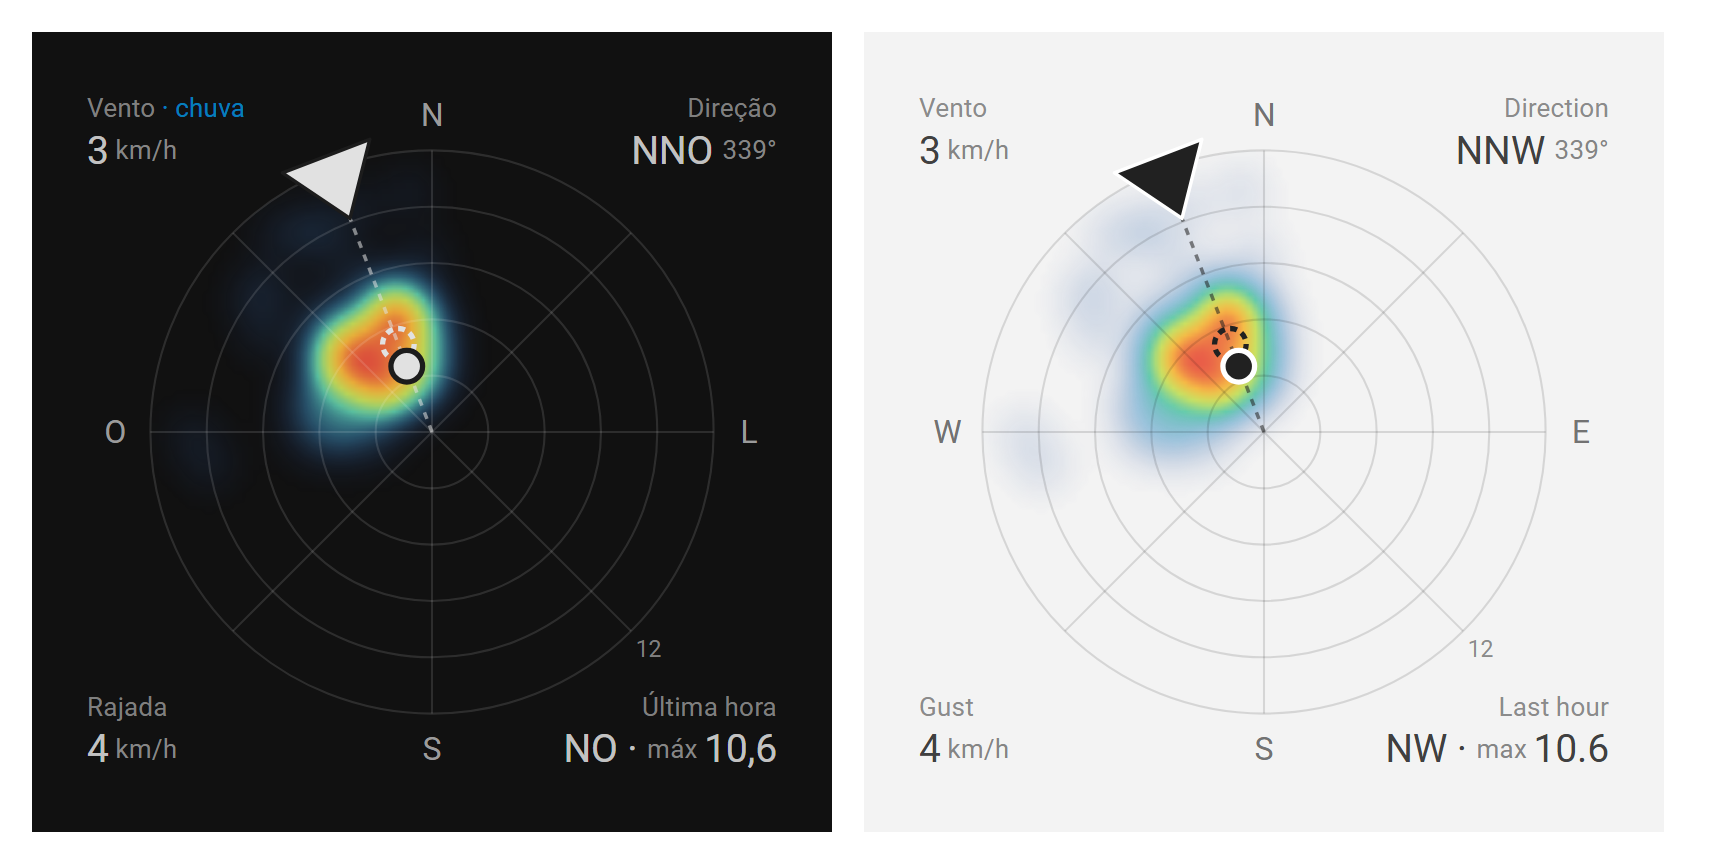
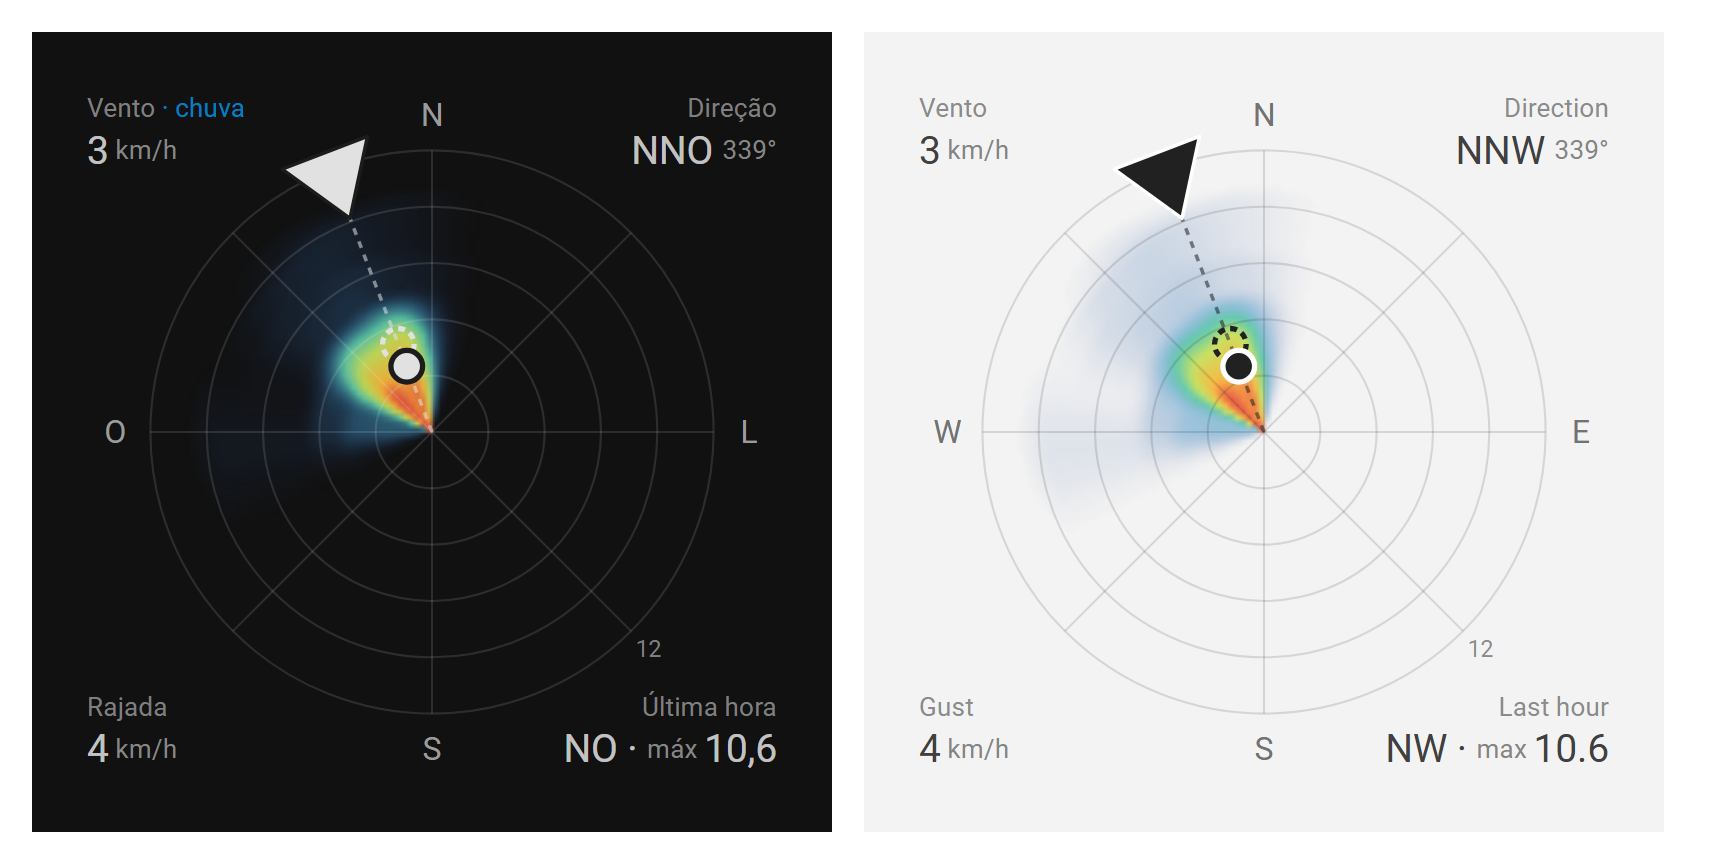
feat: v0.7.0 — heat map grows from the centre; full YAML on new cards
- heat_mode: plume (default): each sample paints its bearing from the
  centre out to the speed it reached, so intensity at (bearing, r) is
  the share of time the wind came from there and reached at least r.
  Smoothed across bearings, wraps at north. heat_mode: spots keeps the
  previous look. Closes #6
- New cards start with every option in YAML (same set as the visual
  editor) via DEFAULTS; setConfig merges the same defaults, and an old
  `hours` config still wins over the default window.
- Editor: heat_mode, calm and refresh fields; sectors as a number; the
  form shows the real defaults when a key is missing.

diff --git a/pt2vhf-wind-rose-card.js b/pt2vhf-wind-rose-card.js
@@ -4,7 +4,7 @@
  * comes FROM, distance from the centre = speed, colour = how much time it blew there.
  * https://github.com/alexpmr/pt2vhf-wind-rose
  */
-const VERSION = '0.6.0';
+const VERSION = '0.7.0';
 const TAG = 'pt2vhf-wind-rose-card';
 
 const STR = {
@@ -96,6 +96,7 @@ export function computeRose(speed, dir, { start, end, sectors = 16, rings = 5, m
   const counts = Array.from({ length: sectors }, () => new Array(rings).fill(0));
   const bySector = new Array(sectors).fill(0);
   const points = [];
+  const polar = [];
   let calmN = 0;
   let sum = 0;
   for (const [s, d] of samples) {
@@ -104,6 +105,7 @@ export function computeRose(speed, dir, { start, end, sectors = 16, rings = 5, m
     const r = Math.min(1, s / max);
     const rad = (d * Math.PI) / 180;
     points.push([r * Math.sin(rad), -r * Math.cos(rad)]);
+    polar.push([r, d]);
     const a = sectorOf(d, sectors);
     counts[a][Math.min(rings - 1, Math.floor((s / max) * rings))]++;
     bySector[a]++;
@@ -111,7 +113,7 @@ export function computeRose(speed, dir, { start, end, sectors = 16, rings = 5, m
   const total = samples.length;
   const best = bySector.indexOf(Math.max(...bySector));
   return {
-    counts, total, max, peak, points,
+    counts, total, max, peak, points, polar,
     calm: total ? calmN / total : 0,
     avg: total ? sum / total : 0,
     prevailing: total > calmN ? best : -1,
@@ -143,6 +145,62 @@ export function density(points, n = 96, sigma = 0.08) {
   for (const v of g) if (v > top) top = v;
   if (top > 0) for (let k = 0; k < g.length; k++) g[k] /= top;
   return g;
+}
+
+/**
+ * Radial "plume" heat map on an n×n grid over [-1, 1]² (row 0 = top), normalised to 1.
+ * Each sample [r, deg] paints the whole ray from the centre out to its speed r (soft tip),
+ * so intensity at (bearing, radius) = time the wind came from ~bearing AND reached at least
+ * that radius. Smoothed across bearings with a Gaussian of sigmaDeg; wraps at north.
+ */
+export function plume(polar, n = 96, sigmaDeg = 10, tip = 0.04) {
+  const B = 360; // 1° bearing bins
+  const K = 64; // radial levels
+  const E = new Float32Array(B * K);
+  for (const [r, d] of polar) {
+    const b = Math.round(withOffset(d, 0)) % B;
+    for (let k = 0; k < K; k++) {
+      const t = Math.min(1, Math.max(0, ((r - (k + 0.5) / K) / tip) * 0.5 + 0.5));
+      if (t === 0) break;
+      E[b * K + k] += t * t * (3 - 2 * t); // smoothstep: plume fades just past its speed
+    }
+  }
+  // Circular Gaussian blur across bearings.
+  const w = Math.max(1, Math.ceil(3 * sigmaDeg));
+  const kern = Array.from({ length: 2 * w + 1 }, (_, o) => Math.exp(-((o - w) ** 2) / (2 * sigmaDeg * sigmaDeg)));
+  const P = new Float32Array(B * K);
+  for (let b = 0; b < B; b++) {
+    for (let o = -w; o <= w; o++) {
+      const src = ((b + o) % B + B) % B;
+      const g = kern[o + w];
+      for (let k = 0; k < K; k++) P[b * K + k] += g * E[src * K + k];
+    }
+  }
+  // Sample the polar table on the cartesian grid (bilinear in bearing and radius).
+  const out = new Float32Array(n * n);
+  let top = 0;
+  for (let j = 0; j < n; j++) {
+    const y = ((j + 0.5) * 2) / n - 1;
+    for (let i = 0; i < n; i++) {
+      const x = ((i + 0.5) * 2) / n - 1;
+      const rho = Math.hypot(x, y);
+      if (rho > 1) continue;
+      const phi = withOffset((Math.atan2(x, -y) * 180) / Math.PI, 0);
+      const b0 = Math.floor(phi) % B;
+      const b1 = (b0 + 1) % B;
+      const tb = phi - Math.floor(phi);
+      const kf = Math.min(K - 1, Math.max(0, rho * K - 0.5));
+      const k0 = Math.floor(kf);
+      const k1 = Math.min(K - 1, k0 + 1);
+      const tk = kf - k0;
+      const v = (P[b0 * K + k0] * (1 - tb) + P[b1 * K + k0] * tb) * (1 - tk)
+        + (P[b0 * K + k1] * (1 - tb) + P[b1 * K + k1] * tb) * tk;
+      out[j * n + i] = v;
+      if (v > top) top = v;
+    }
+  }
+  if (top > 0) for (let k = 0; k < out.length; k++) out[k] /= top;
+  return out;
 }
 
 function rgbAt(f) {
@@ -221,26 +279,55 @@ export function pointerSvg(style, dir, R, { guide = true } = {}) {
 const LABELS = {
   entity: 'Wind speed', direction_entity: 'Wind direction (degrees)', gust_entity: 'Gust', rain_entity: 'Rain',
   name: 'Name', window: 'Heat-map window', direction_offset: 'Rotate rose (display only)', max_speed: 'Max speed (0 = auto)',
-  smooth: 'Heat-map softness', pointer: 'Pointer style', pointer_color: 'Pointer colour (CSS)',
+  heat_mode: 'Heat-map style', smooth: 'Heat-map softness', pointer: 'Pointer style', pointer_color: 'Pointer colour (CSS)',
   show_guide: 'Arrow guide line', show_speed: 'Current speed dot', show_gust: 'Gust ring', show_rim: 'Outer circle', show_rings: 'Speed rings', show_spokes: 'Spokes', show_scale: 'Scale label', rings: 'Ring count',
-  sectors: 'Prevailing bins', max_width: 'Max size', tap_action: 'Tap action',
+  sectors: 'Prevailing bins', calm: 'Calm below (speed)', refresh: 'History refresh', max_width: 'Max size', tap_action: 'Tap action',
 };
 
 const esc = (s) => String(s).replace(/[&<>"']/g, (c) => `&#${c.charCodeAt(0)};`);
 const Base = globalThis.HTMLElement ?? class {};
 
-class WindRoseCard extends Base {
+/** Every optional setting with the value the card uses when it is missing. */
+export const DEFAULTS = {
+  window: '1h',
+  heat_mode: 'plume',
+  smooth: 8,
+  calm: 0.5,
+  max_speed: 0,
+  direction_offset: 0,
+  pointer: 'arrow',
+  pointer_color: '',
+  show_guide: true,
+  show_speed: true,
+  show_gust: true,
+  show_rim: true,
+  show_rings: true,
+  show_spokes: true,
+  show_scale: true,
+  rings: 5,
+  sectors: 16,
+  max_width: 380,
+  refresh: 60,
+  tap_action: { action: 'more-info' },
+};
+
+export class WindRoseCard extends Base {
+  // A new card's YAML lists every option (same set as the visual editor), so it can be edited later.
   static getStubConfig(hass) {
     const ids = Object.keys(hass?.states || {});
     const dc = (cls) => ids.find((id) => hass.states[id].attributes?.device_class === cls);
     return {
       entity: dc('wind_speed') || '',
       direction_entity: ids.find((id) => /wind.*(dir|bearing)|(dir|bearing).*wind/i.test(id)) || '',
+      gust_entity: ids.find((id) => /wind.*gust|gust/i.test(id)) || '',
+      rain_entity: '',
+      name: '',
+      ...structuredClone(DEFAULTS),
     };
   }
 
   static getConfigForm() {
-    return {
+    const form = {
       schema: [
         { name: 'entity', required: true, selector: { entity: { domain: 'sensor' } } },
         { name: 'direction_entity', required: true, selector: { entity: { domain: 'sensor' } } },
@@ -260,6 +347,7 @@ class WindRoseCard extends Base {
             },
             { name: 'direction_offset', selector: { number: { min: -180, max: 180, step: 1, mode: 'box', unit_of_measurement: '°' } } },
             { name: 'max_speed', selector: { number: { min: 0, mode: 'box' } } },
+            { name: 'heat_mode', selector: { select: { mode: 'dropdown', options: ['plume', 'spots'] } } },
             { name: 'smooth', selector: { number: { min: 2, max: 25, step: 1, mode: 'slider' } } },
           ],
         },
@@ -280,7 +368,9 @@ class WindRoseCard extends Base {
                 { name: 'show_spokes', selector: { boolean: {} } },
                 { name: 'show_scale', selector: { boolean: {} } },
                 { name: 'rings', selector: { number: { min: 2, max: 12, mode: 'box' } } },
-                { name: 'sectors', selector: { select: { options: ['8', '16', '32'] } } },
+                { name: 'sectors', selector: { number: { min: 4, max: 64, mode: 'box' } } },
+                { name: 'calm', selector: { number: { min: 0, max: 5, step: 0.1, mode: 'box' } } },
+                { name: 'refresh', selector: { number: { min: 10, max: 3600, mode: 'box', unit_of_measurement: 's' } } },
                 { name: 'max_width', selector: { number: { min: 120, max: 1000, mode: 'box', unit_of_measurement: 'px' } } },
               ],
             },
@@ -290,6 +380,10 @@ class WindRoseCard extends Base {
       ],
       computeLabel: (s) => LABELS[s.name],
     };
+    // Show the real defaults (e.g. toggles that are on) even when a key is missing from the YAML.
+    const fill = (schema) => schema.forEach((s) => (s.schema ? fill(s.schema) : (s.name in DEFAULTS && (s.default = DEFAULTS[s.name]))));
+    fill(form.schema);
+    return form;
   }
 
   setConfig(config) {
@@ -297,9 +391,12 @@ class WindRoseCard extends Base {
       throw new Error('entity (wind speed) and direction_entity are required');
     }
     this._config = {
-      sectors: 16, rings: 5, calm: 0.5, refresh: 60, ...config,
+      ...structuredClone(DEFAULTS),
+      ...config,
     };
-    this._config.sectors = Number(this._config.sectors);
+    // A config that only sets the older 'hours' keeps using it.
+    if (config.window == null && config.hours != null) delete this._config.window;
+    this._config.sectors = Number(this._config.sectors) || 16;
     this._rose = null;
     this._fetchedAt = 0;
     if (this._hass) this._update(true);
@@ -349,7 +446,10 @@ class WindRoseCard extends Base {
       });
       // The heat image is built once per history refresh, not on every state update.
       this._heat = this._rose.points.length
-        ? heatImage(density(this._rose.points, HEAT_GRID, (c.smooth ?? 8) / 100), HEAT_GRID) : '';
+        ? heatImage(c.heat_mode === 'spots'
+          ? density(this._rose.points, HEAT_GRID, (c.smooth ?? 8) / 100)
+          // smooth 8 ≈ 10° of angular spread for the plumes
+          : plume(this._rose.polar, HEAT_GRID, (c.smooth ?? 8) * 1.25), HEAT_GRID) : '';
       this._error = null;
     } catch (e) {
       this._error = e?.message || String(e);

diff --git a/demo/options.html b/demo/options.html
@@ -36,7 +36,8 @@
   };
   const base = { entity: 'sensor.wind_speed', direction_entity: 'sensor.wind_direction', gust_entity: 'sensor.wind_gust', name: 'Vento' };
   const cases = [
-    ['pointer: arrow', {}],
+    ['plume (default)', {}],
+    ['heat_mode: spots', { heat_mode: 'spots' }],
     ['pointer: needle', { pointer: 'needle' }],
     ['pointer: compass', { pointer: 'compass' }],
     ['pointer: chevron', { pointer: 'chevron' }],

diff --git a/README.md b/README.md
@@ -4,11 +4,13 @@ A compact Home Assistant Lovelace card that shows **where the wind is coming fro
 
 ![PT2VHF Wind Rose in dark and light themes](images/preview.png)
 
-The rose is a continuous polar heat map (a smooth density of every sample, with no sector or ring edges):
+The rose is a polar heat map that grows **from the centre outward** (`heat_mode: plume`, default):
 
 - **angle** = direction the wind comes *from* (meteorological convention)
-- **distance from the centre** = speed (calm in the middle, strong at the rim)
-- **colour** = share of time the wind blew there (blue = rare → red = most of the time)
+- **distance from the centre** = speed: every sample paints its direction from the centre out to the speed it reached, so each plume shows where the wind came from and how strong it got
+- **colour** = share of time the wind came from that direction and reached at least that speed (blue = rare → red = most of the time)
+
+`heat_mode: spots` draws the older look instead: a soft spot at each sample's direction and speed.
 
 On top of it, a large arrow on the rim points in from the current direction, a solid dot marks the current wind and a dashed ring the current gust. The rose fills the card; the numbers sit quietly in the corners: current speed (and a rain note), direction, gust, and the window's prevailing direction and max.
 
@@ -31,13 +33,41 @@ Copy `pt2vhf-wind-rose-card.js` to `config/www/`, then add a dashboard resource 
 
 ```yaml
 type: custom:pt2vhf-wind-rose-card
-entity: sensor.wind_speed            # required – wind speed
+# Sensors
+entity: sensor.wind_speed             # required – wind speed
 direction_entity: sensor.wind_bearing # required – direction in degrees (0 = N)
-gust_entity: sensor.wind_gust        # optional
-name: Wind                           # optional
-window: 1h                           # heat-map window: 15m, 30m, 1h, 6h, 24h…
-pointer: arrow                       # arrow | chevron | dart | needle | compass | vane | none
+gust_entity: sensor.wind_gust         # optional
+rain_entity: binary_sensor.raining    # optional
+name: Wind
+# Heat map
+window: 1h                # 15m, 30m, 1h, 2h, 3h, 6h, 12h, 24h
+heat_mode: plume          # plume | spots
+smooth: 8                 # softness
+calm: 0.5                 # speeds below this are left out
+max_speed: 0              # 0 = auto scale
+# Orientation
+direction_offset: 0       # rotate the whole rose clockwise (display only)
+# Pointer
+pointer: arrow            # arrow | chevron | dart | needle | compass | vane | none
+pointer_color: ''         # empty = text colour
+show_guide: true
+show_speed: true
+show_gust: true
+# Grid
+show_rim: true
+show_rings: true
+show_spokes: true
+show_scale: true
+rings: 5
+sectors: 16
+# Size and refresh
+max_width: 380
+refresh: 60
+tap_action:
+  action: more-info
 ```
+
+A new card added from the card picker starts with this full list (the same options as the visual editor), so every setting is there to change later.
 
 | Option | Default | Description |
 | --- | --- | --- |
@@ -51,7 +81,7 @@ pointer: arrow                       # arrow | chevron | dart | needle | compass
 | `hours` | `1` | Older way to set the window in whole hours; ignored when `window` is set. |
 | `direction_offset` | `0` | Rotates the whole rose clockwise by this many degrees (N/E/S/W labels, grid, heat map and pointer) so it matches how the viewer faces the dashboard. Display only: measured values and the direction text stay true. |
 | `max_speed` | auto | Speed at the rim. Auto picks a round value above the window's peak. |
-| `sectors` | `16` | Direction bins used for the prevailing direction: 8, 16 or 32. |
+| `sectors` | `16` | Direction bins used for the prevailing direction (4–64). |
 | `rings` | `5` | Number of speed circles drawn on the grid (never changes the heat map). |
 | `show_guide` | `true` | Dashed line from the arrow to the centre (`arrow` pointer only). |
 | `show_speed` | `true` | Solid dot at the current speed, in the current direction (distance from the centre = speed). |
@@ -64,7 +94,8 @@ pointer: arrow                       # arrow | chevron | dart | needle | compass
 | `pointer_color` | text colour | Any CSS colour for the pointer, e.g. `#e8553e` or `var(--accent-color)`. |
 | `calm` | `0.5` | Speeds below this count as calm and are left out of the heat map. |
 | `max_width` | `380` | Maximum size of the rose in px on wide cards. |
-| `smooth` | `8` | Spread of each sample in the heat map, in % of the radius (lower = more detail, higher = softer). |
+| `heat_mode` | `plume` | `plume`: heat grows from the centre out to the speed reached in each direction. `spots`: a soft spot at each sample. |
+| `smooth` | `8` | Softness of the heat map: angular spread of the plumes (≈ 1.25° per unit) or size of the spots (% of the radius). |
 | `refresh` | `60` | Seconds between history reloads. |
 
 The card reads history through the recorder (`history/history_during_period`), so both sensors must be recorded. Direction sensors that report text (e.g. `NW`) are not supported — use a numeric degree sensor.
